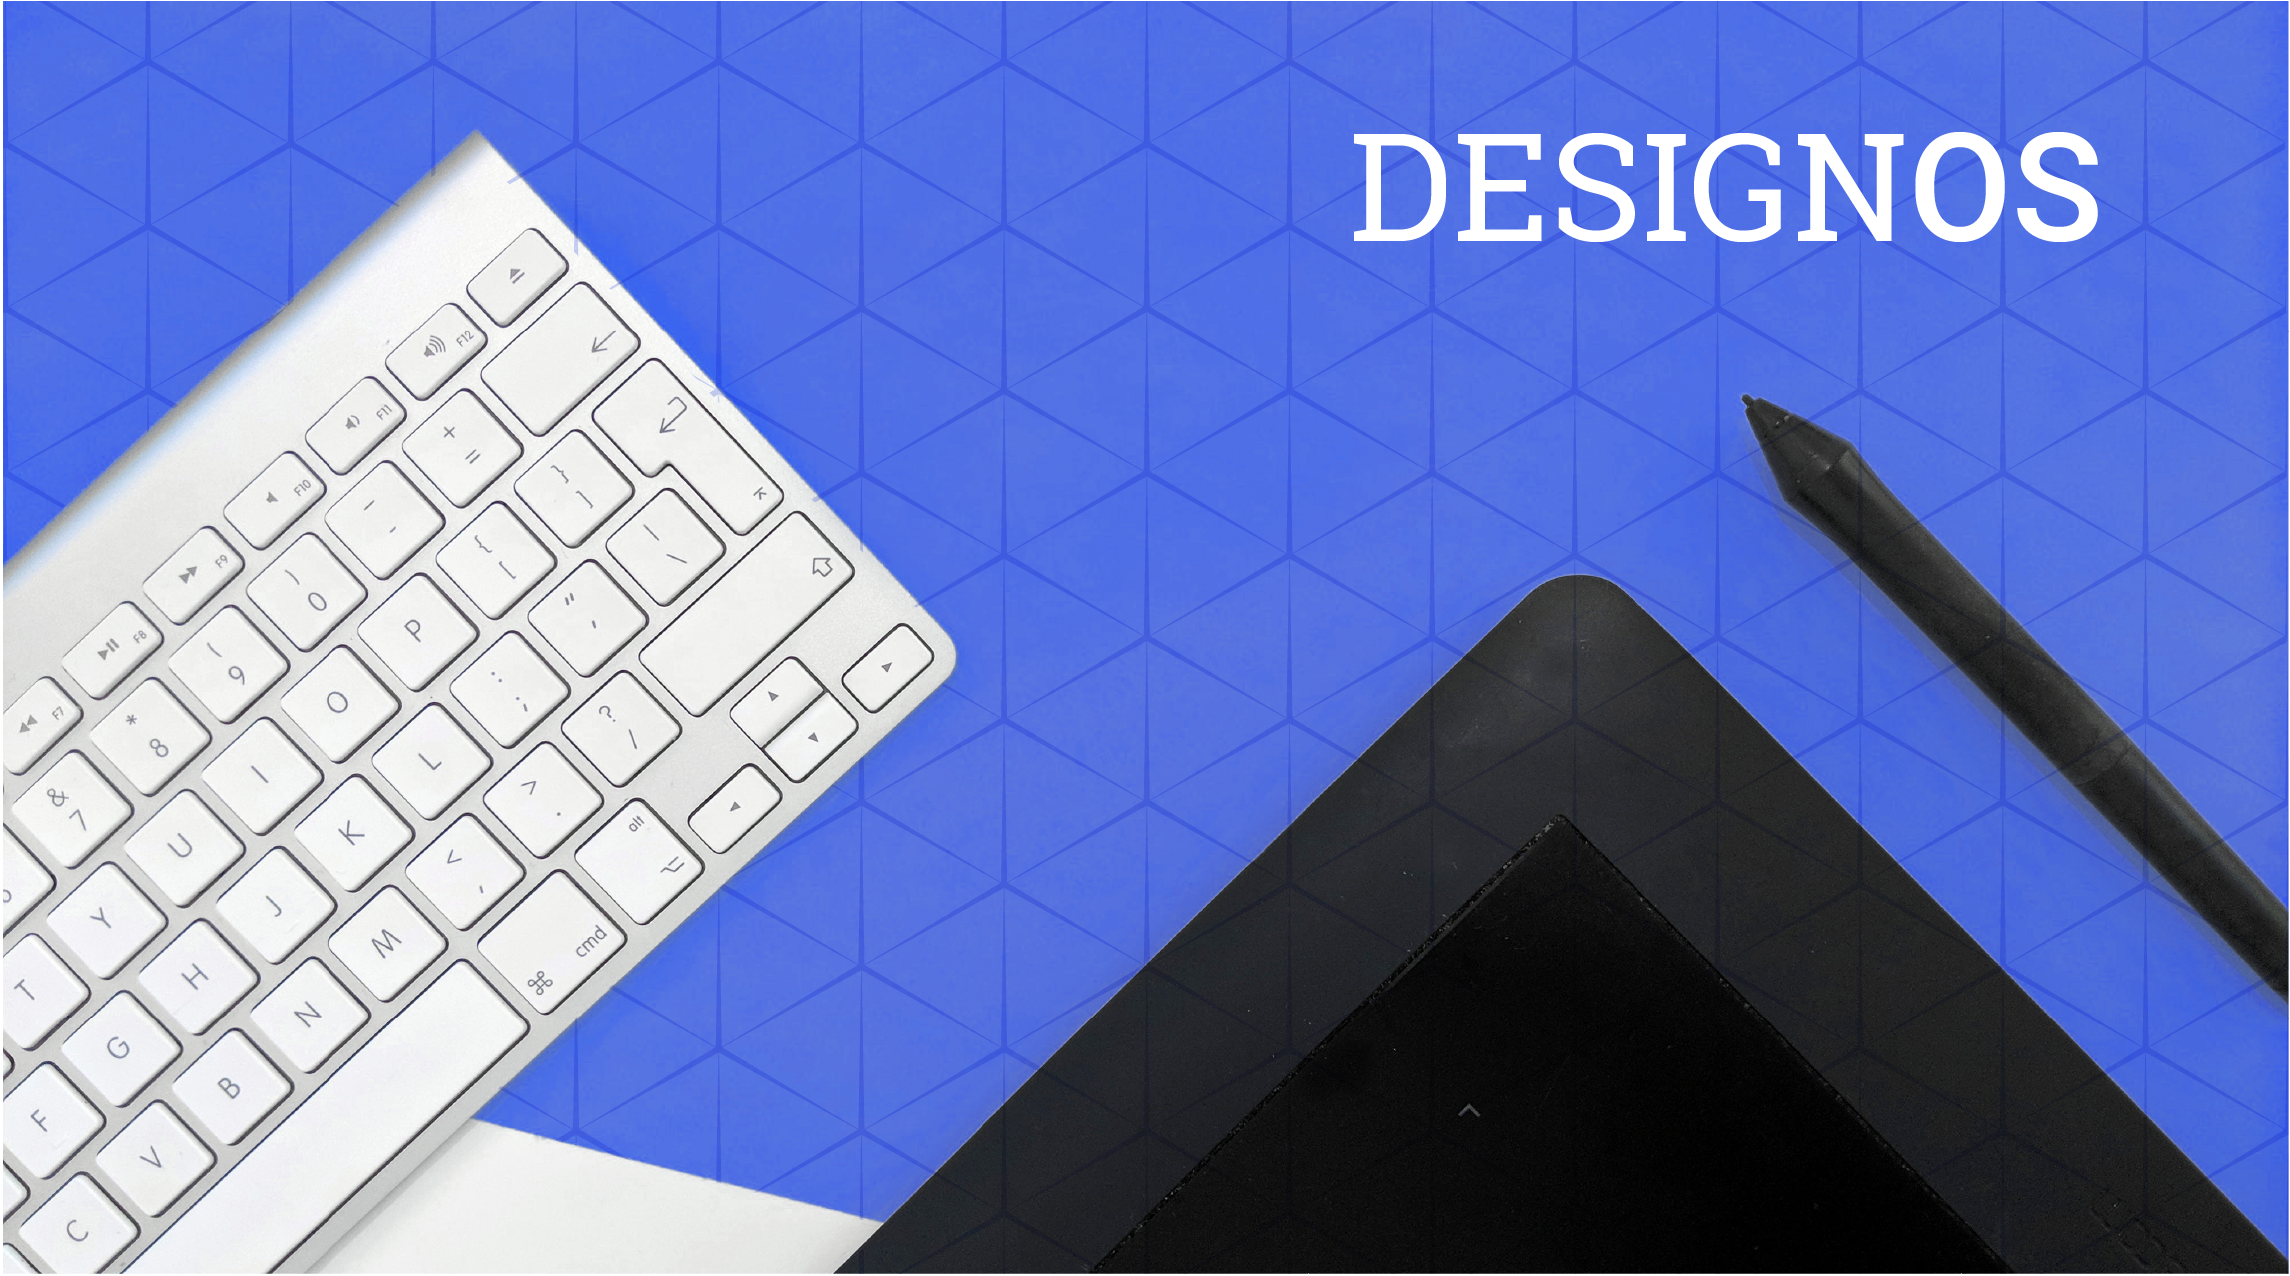
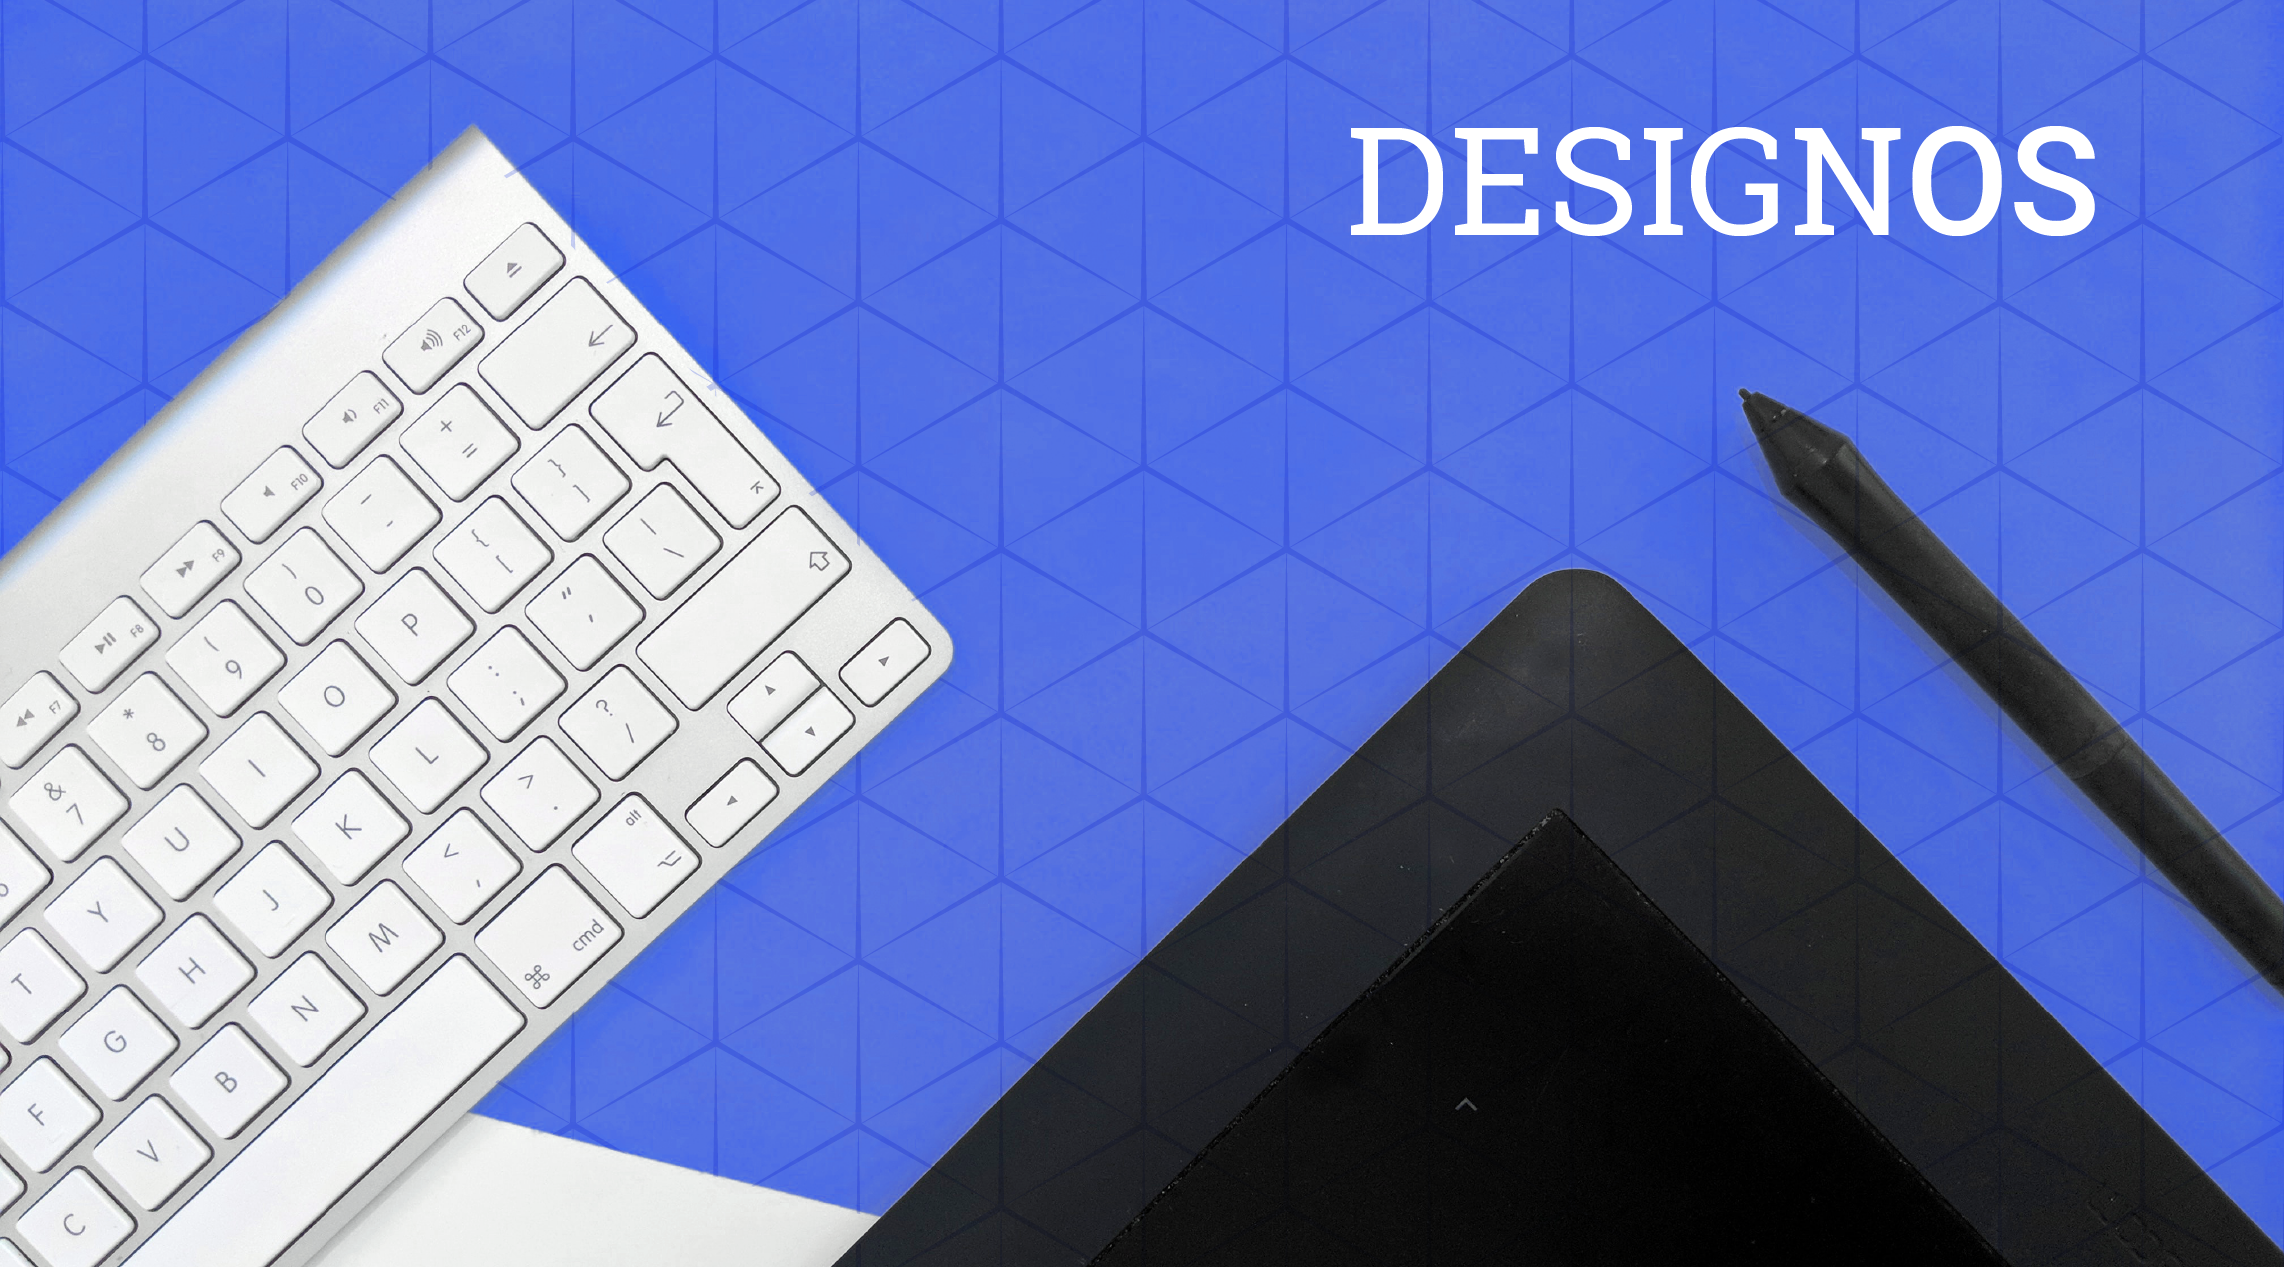
img fix M4

diff --git a/T3/Modulo 4/Ejercicio 3/style.css b/T3/Modulo 4/Ejercicio 3/style.css
@@ -15,7 +15,7 @@ header {
   background-image: url("../Recursos/Ejercicio 3/img-header.png");
   background-size: contain;
   background-repeat: no-repeat;
-  height: 100vh;
+  height: 55vw;
   background-position: top;
 }
 
